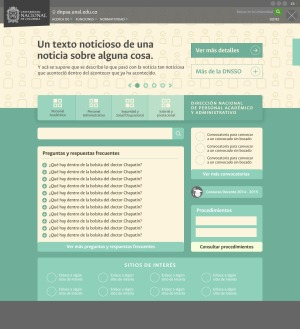
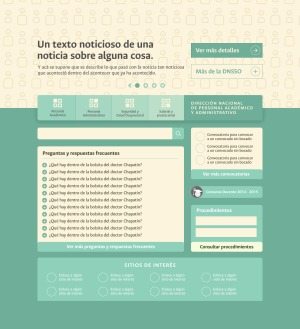
Agregar imágenes de Personal y Posgrados de Ciencias Políticas [Web].

Changed region(s): [[0.0, 0.0, 1.0, 0.2128], [0.0, 0.9119, 1.0, 1.0]]

diff --git a/docs/web/posgrados-ciencias-politicas.html b/docs/web/posgrados-ciencias-politicas.html
@@ -40,9 +40,8 @@
             <article>
               <div class="item-img">
                 <ul class="slider">
-                  <li class="selected"><img src="img/web/large/personal-1.jpg" alt="Propuesta de diseño de la página inicial." /></li>
-                  <li><img src="img/web/large/personal-2.jpg" alt="Propuesta de diseño de una pagina interior." /></li>
-                  <li><img src="img/web/large/personal-3.jpg" alt="Además de la paleta seleccionada, se desarrollaron más propuestas de color." /></li>
+                  <li class="selected"><img src="img/web/large/posgrados-ciencias-politicas-1.jpg" alt="Propuesta de diseño de la página inicial." /></li>
+                  <li><img src="img/web/large/posgrados-ciencias-politicas-2.jpg" alt="Propuesta de diseño de una pagina interior." /></li>
                 </ul>
 
                 <ul class="slider-navigation">
@@ -54,11 +53,9 @@
               </div><!-- item-img -->
 
               <div class="item-txt">
-                <h1>Personal</h1>
-                <p>Sitio web de la Dirección Nacional de Personal Académico y Administrativo de la Universidad Nacional de Colombia. Además de la página inicial, consta de subsitios web para las cuatro divisiones de la dirección, junto con sistemas de información e interfaces para la consulta de convocatorias y documentos.</p>
+                <h1>Posgrados de Ciencias Políticas</h1>
+                <p>Propuesta inicial de diseño de pagina inicial y pagina de detalle para el sitio web de Posgrados de Ciencias Políticas de la Universidad Nacional de Colombia. Como encargo, se había solicitado que el sitio web diera a conocer la oferta académica en cuanto a posgrados de la facultad, y adicionalmente sus publicaciones impresas.</p>
                 <p>Para efectos de la presentación en este portafolio, se excluyeron los elementos pertenecientes a la plantilla web institucional de la universidad, los cuales estaban incluídos en los bocetos originales.</p>
-                <a href="#"><button></button><span>Ver este sitio web</span></a>
-                <blockquote><p>Por peticion de la dirección, varios elementos del diseño y la diagramación  de la propuesta seleccionada (presentada en este portafolio) fueron alterados durante el proceso de maquetación. Actualmente, este sitio web se encuentra en desarrollo.</p></blockquote>
               </div>
             </article>
           </div>

diff --git a/index.html b/index.html
@@ -59,7 +59,7 @@
             <h4 class="title-otr">Algunas <em>otras cositas</em> que he diseñado.</h4>
             <section class="grid-wrap">
               <ul class="grid">
-                <li class="item-web"><a data-item-type="item-web" href="prueba.html">
+                <li class="item-web"><a data-item-type="item-web" href="docs/web/posgrados-ciencias-politicas.html">
                   <img src="img/web/posgrados-ciencias-politicas.jpg" alt="" />
                 </a></li>
                 <li class="item-web"><a data-item-type="item-web" href="docs/web/personal.html">

diff --git a/js/funciones.js b/js/funciones.js
@@ -75,11 +75,11 @@ jQuery(document).ready(function(event){
     container.addClass('loading');
     isAnimating = true;
 
-    //if( support.animations ) {
+    if( support.animations ) {
       container.one('animationend', function(){
         setProgress();
       });
-    //}
+    }
   }
 
   function setProgress()
